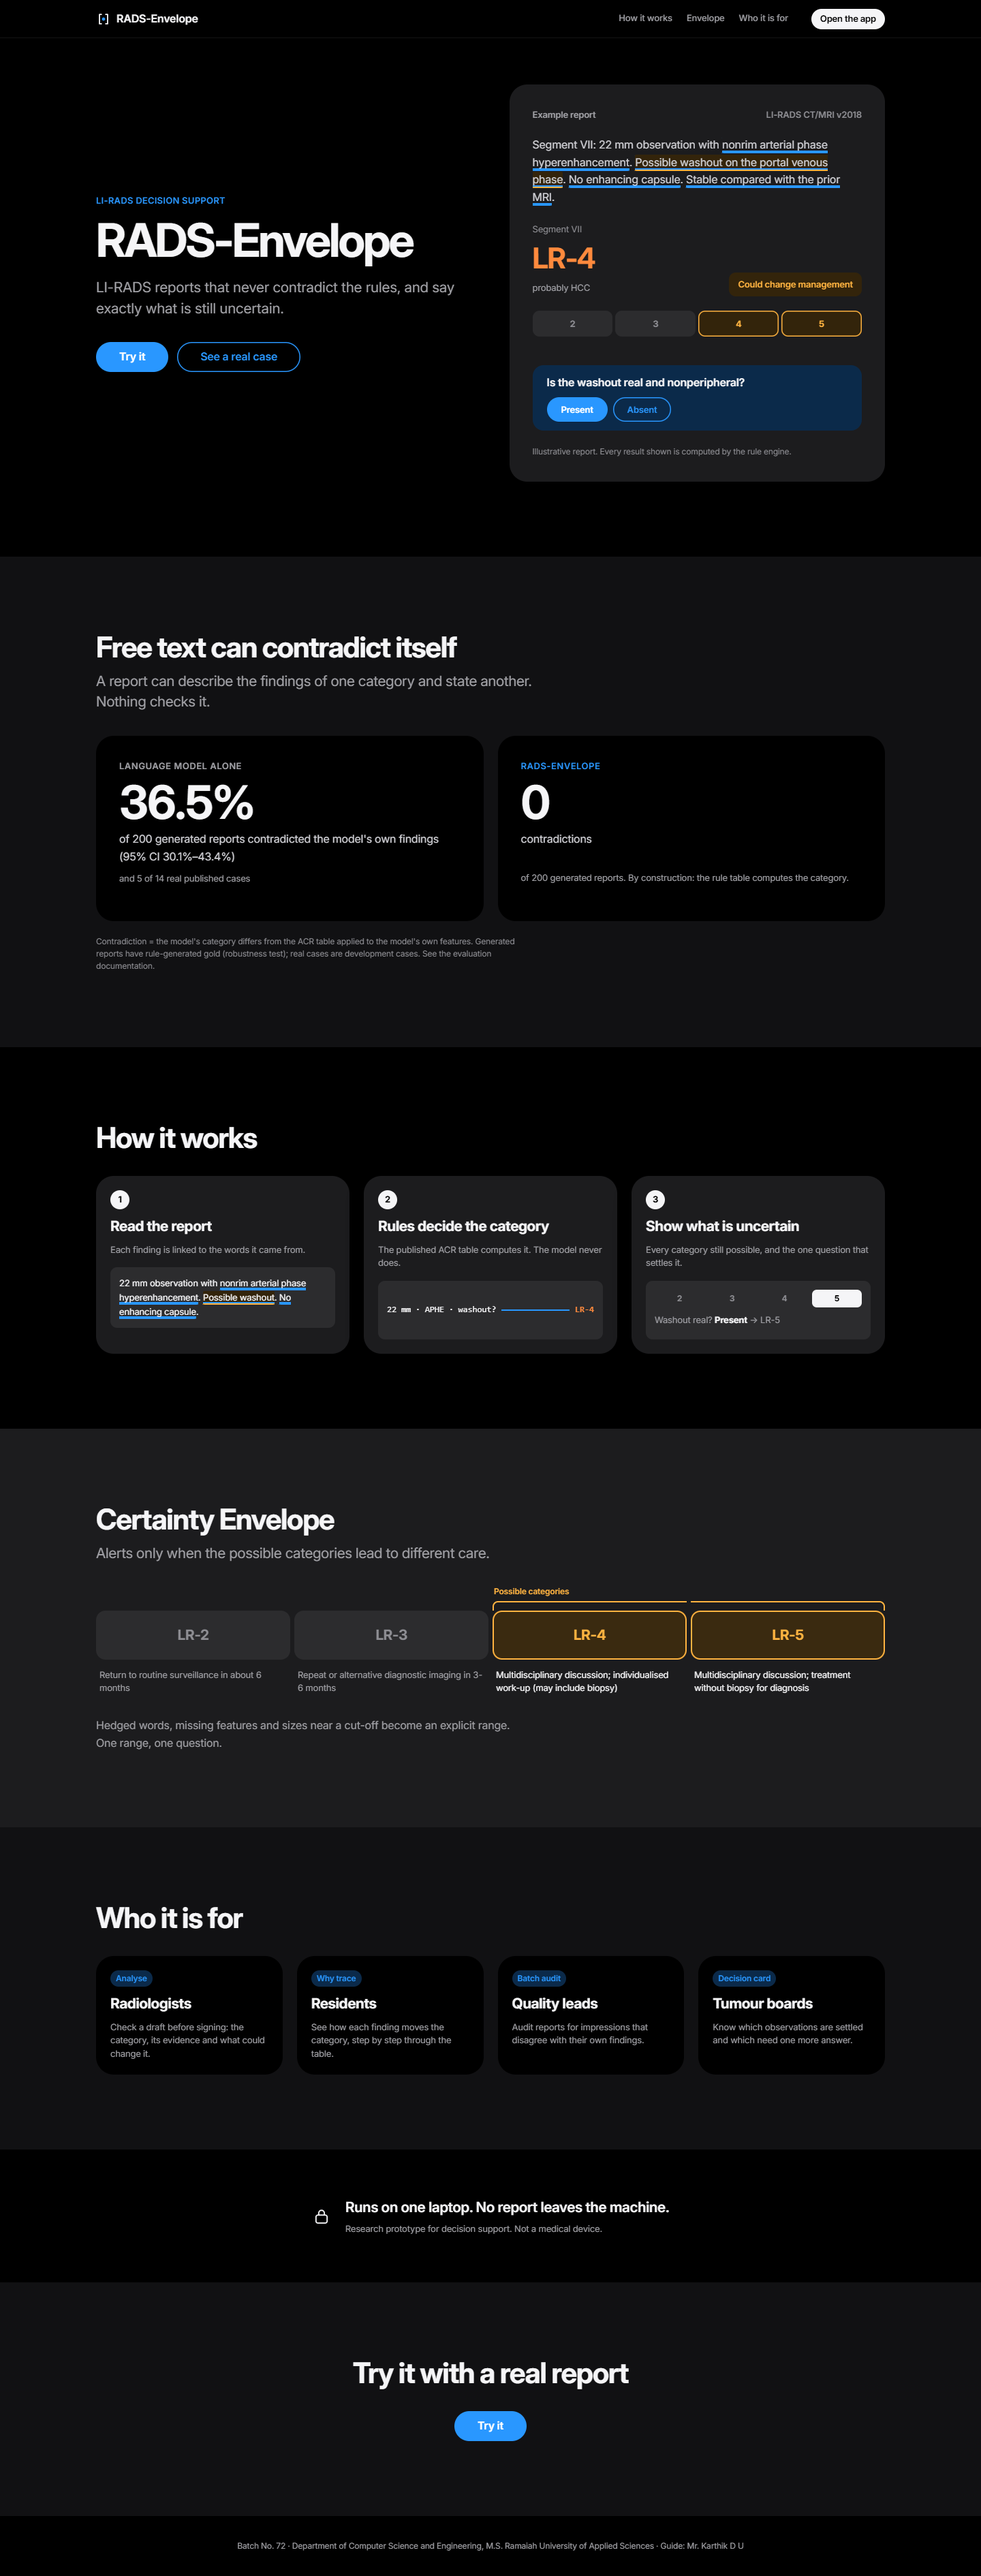
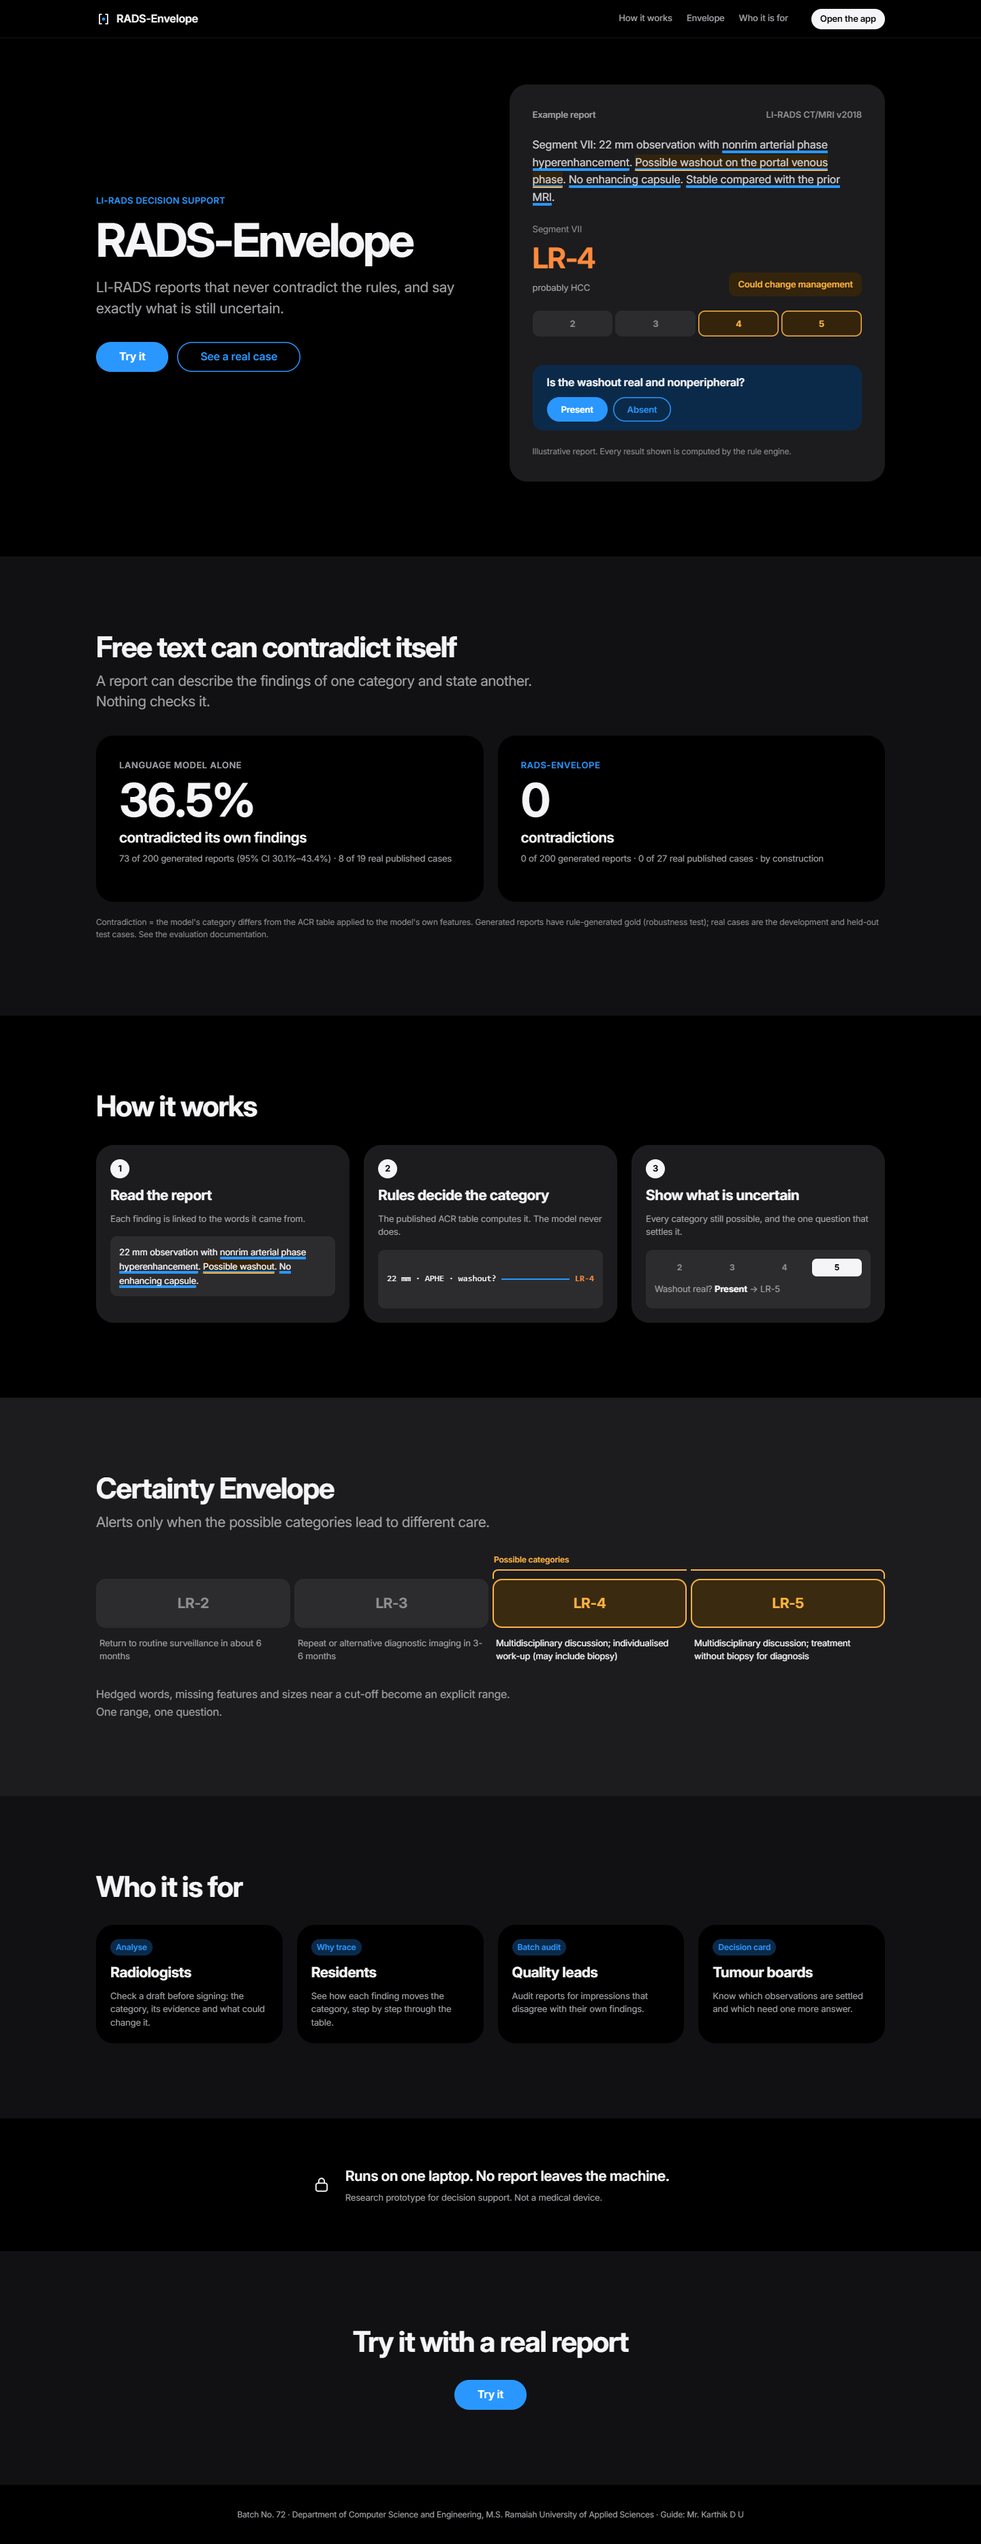
RADS-Envelope

diff --git a/web/static/landing.css b/web/static/landing.css
@@ -78,14 +78,17 @@ body.landing{--band:#ffffff;--dark-bg:#1d1d1f;--dark-ink:#f5f5f7;--dark-muted:#a
 .demo-foot{margin:0;font-size:12px}
 
 /* problem stats */
-.stats{display:grid;grid-template-columns:1fr 1fr;gap:var(--s4)}
-.stat{padding:var(--s5);display:flex;flex-direction:column;gap:var(--s2)}
-.stat-who{font-size:var(--t-xs);font-weight:600;color:var(--muted);text-transform:uppercase;letter-spacing:.04em}
+/* The two tiles share four row tracks (subgrid), so label, number, title and context align across tiles;
+   fixed row heights are the fallback where subgrid is unsupported. The footnote spans both tiles. */
+.stats{display:grid;grid-template-columns:1fr 1fr;grid-template-rows:repeat(4,auto) auto;column-gap:var(--s4);row-gap:0}
+.stat{grid-row:span 4;display:grid;grid-template-rows:subgrid;row-gap:var(--s2);padding:var(--s5)}
+@supports not (grid-template-rows:subgrid){.stat{grid-template-rows:20px 68px 28px 3em}}
+.stat-who{font-size:var(--t-xs);font-weight:600;color:var(--muted);text-transform:uppercase;letter-spacing:.04em;line-height:1.4}
 .stat-who.accent{color:var(--blue)}
-.stat-num{font-size:var(--t-2xl);font-weight:700;letter-spacing:-.05em;line-height:1;color:var(--ink);font-variant-numeric:tabular-nums;min-height:68px}
-.stat-sub{font-size:var(--t-sm);color:var(--ink-2);min-height:3.2em}
-.stat-sub2{font-size:var(--t-xs);color:var(--muted);min-height:3em}
-.source{margin:var(--s4) 0 0;max-width:640px;font-size:12px;line-height:1.5;color:var(--faint)}
+.stat-num{font-size:var(--t-2xl);font-weight:700;letter-spacing:-.05em;line-height:1;color:var(--ink);font-variant-numeric:tabular-nums;align-self:end}
+.stat-title{font-size:var(--t-md);font-weight:600;letter-spacing:-.02em;line-height:1.3;color:var(--ink);white-space:nowrap}
+.stat-ctx{font-size:var(--t-xs);line-height:1.5;color:var(--muted);min-height:3em}
+.stats .source{grid-column:1 / -1;margin:var(--s4) 0 0;max-width:none;font-size:12px;line-height:1.5;color:var(--faint)}
 
 /* how it works */
 .steps{margin:var(--s5) 0 0;padding:0;list-style:none;display:grid;grid-template-columns:repeat(3,1fr);gap:var(--s4)}
@@ -162,14 +165,20 @@ body.landing{--band:#ffffff;--dark-bg:#1d1d1f;--dark-ink:#f5f5f7;--dark-muted:#a
   .steps{grid-template-columns:1fr}
   .who{grid-template-columns:1fr 1fr}
 }
+@media (max-width:699px){
+  .stats{grid-template-columns:1fr;grid-template-rows:none;row-gap:var(--s3)}
+  .stat{grid-row:auto;grid-template-rows:auto auto auto auto}
+  .stat-title{white-space:normal}
+  .stats .source{margin-top:var(--s2)}
+}
 @media (max-width:600px){
   .sec{padding:68px 0}
   .hero{padding:var(--s5) 0 68px}
   .hero h1{font-size:var(--t-xl)}
   .hero-line,.lede{font-size:var(--t-sm)}
   .sec h2{font-size:var(--t-lg)}
-  .stats,.who{grid-template-columns:1fr}
-  .stat-num{font-size:var(--t-xl);min-height:42px}
+  .who{grid-template-columns:1fr}
+  .stat-num{font-size:var(--t-xl)}
   .demo{padding:var(--s4)}
   .landing .nav nav{display:none}
   .landing .pill{margin-left:auto}

diff --git a/web/static/landing.js b/web/static/landing.js
@@ -27,20 +27,17 @@ function countUp(el, target, fmt) {
     const r = await fetch("/api/headline");
     if (!r.ok) return;
     const h = await r.json();
-    const rob = h.b1_contradiction.robustness, real = h.b1_contradiction.real_dev;
-    if (rob) {
-      countUp($("statB1"), rob.value, pct);
-      $("problemNumber").textContent = `of ${rob.n} generated reports contradicted the model's own findings (95% CI ${pct(rob.ci95[0])}–${pct(rob.ci95[1])})`;
+    const b1 = h.b1_contradiction || {}, rc = h.rule_contradiction || {};
+    const ctx = (p, ci) => `${p.k} of ${p.n} generated reports` + (ci && p.ci95 ? ` (95% CI ${pct(p.ci95[0])}–${pct(p.ci95[1])})` : "");
+    const real = (p) => `${p.k} of ${p.n} real published cases`;
+    if (b1.robustness) {
+      countUp($("statB1"), b1.robustness.value, pct);
+      $("problemNumber").textContent = [ctx(b1.robustness, true), b1.real_all && real(b1.real_all)].filter(Boolean).join(" · ");
     }
-    if (real) $("statB1Real").textContent = `and ${real.k} of ${real.n} real published cases`;
-    const ours = h.rule_contradiction && (h.rule_contradiction.robustness || h.rule_contradiction.real_dev);
-    if (ours) {
-      countUp($("statOurs"), ours.k, (v) => String(Math.round(v)));
-      $("statOursSub").textContent = `of ${ours.n} generated reports. By construction: the rule table computes the category.`;
+    if (rc.robustness) {
+      countUp($("statOurs"), rc.robustness.k, (v) => String(Math.round(v)));
+      $("statOursCtx").textContent = [ctx(rc.robustness, false), rc.real_all && real(rc.real_all), "by construction"].filter(Boolean).join(" · ");
     }
-    $("problemSource").textContent =
-      "Contradiction = the model's category differs from the ACR table applied to the model's own features. "
-      + "Generated reports have rule-generated gold (robustness test); real cases are development cases. See the evaluation documentation.";
   } catch (e) { /* keep the static text */ }
 })();
 

diff --git a/web/landing.html b/web/landing.html
@@ -82,17 +82,17 @@
         <div class="stat card">
           <span class="stat-who">Language model alone</span>
           <span class="stat-num" id="statB1">–</span>
-          <span class="stat-sub" id="problemNumber">of generated reports contradicted the model's own findings</span>
-          <span class="stat-sub2" id="statB1Real"></span>
+          <span class="stat-title">contradicted its own findings</span>
+          <span class="stat-ctx" id="problemNumber">Counts load from the evaluation results.</span>
         </div>
         <div class="stat card">
           <span class="stat-who accent">RADS-Envelope</span>
           <span class="stat-num" id="statOurs">–</span>
-          <span class="stat-sub">contradictions</span>
-          <span class="stat-sub2" id="statOursSub">By construction: the rule table computes the category.</span>
+          <span class="stat-title">contradictions</span>
+          <span class="stat-ctx" id="statOursCtx">By construction: the rule table computes the category.</span>
         </div>
+        <p class="source" id="problemSource">Contradiction = the model's category differs from the ACR table applied to the model's own features. Generated reports have rule-generated gold (robustness test); real cases are the development and held-out test cases. See the evaluation documentation.</p>
       </div>
-      <p class="source" id="problemSource"></p>
     </div>
   </section>
 

diff --git a/radsenvelope/api/app.py b/radsenvelope/api/app.py
@@ -349,10 +349,21 @@ def headline():
     """Numbers for the landing page, read from the committed result files at request time."""
     rob = _read(ROOT / "data" / "benchmark" / "results_comparison.json")
     dev = _read(ROOT / "data" / "real" / "results.comparison.dev.json")
-    return {"b1_contradiction": {"robustness": _contradiction(rob), "real_dev": _contradiction(dev)},
-            # the primary system (rule-computed category): zero by construction, read from the same files
-            "rule_contradiction": {"robustness": _contradiction(rob, "OursC"), "real_dev": _contradiction(dev, "OursC")},
-        "sources": ["data/benchmark/results_comparison.json", "data/real/results.comparison.dev.json"]}
+    test = _read(ROOT / "data" / "real" / "results.comparison.test.json")
+
+    def block(system: str) -> dict:
+        parts = {"robustness": _contradiction(rob, system), "real_dev": _contradiction(dev, system),
+                 "real_test": _contradiction(test, system)}
+        real = [p for p in (parts["real_dev"], parts["real_test"]) if p]
+        if real:                                            # pooled real cases (development + held-out test)
+            k, n = sum(p["k"] for p in real), sum(p["n"] for p in real)
+            parts["real_all"] = {"k": k, "n": n, "value": round(k / n, 4) if n else None}
+        return parts
+
+    # B1 = language model alone; OursC = the primary system (rule-computed category, zero by construction)
+    return {"b1_contradiction": block("B1"), "rule_contradiction": block("OursC"),
+            "sources": ["data/benchmark/results_comparison.json", "data/real/results.comparison.dev.json",
+                        "data/real/results.comparison.test.json"]}
 
 
 @app.get("/api/example")

diff --git a/tests/test_landing.py b/tests/test_landing.py
@@ -76,3 +76,14 @@ def test_brand_assets_are_served():
         assert client.get(path).status_code == 200
     html = client.get("/").text
     assert 'property="og:image"' in html and "favicon.svg" in html
+
+
+def test_headline_pools_real_cases_from_dev_and_test_files():
+    h = client.get("/api/headline").json()
+    for system, key in (("B1", "b1_contradiction"), ("OursC", "rule_contradiction")):
+        k = n = 0
+        for split in ("dev", "test"):
+            res = json.loads((ROOT / "data" / "real" / f"results.comparison.{split}.json").read_text(encoding="utf-8"))
+            rate = res["systems"][system]["summary"]["contradiction_rate"]
+            k, n = k + rate["k"], n + rate["n"]
+        assert (h[key]["real_all"]["k"], h[key]["real_all"]["n"]) == (k, n)
